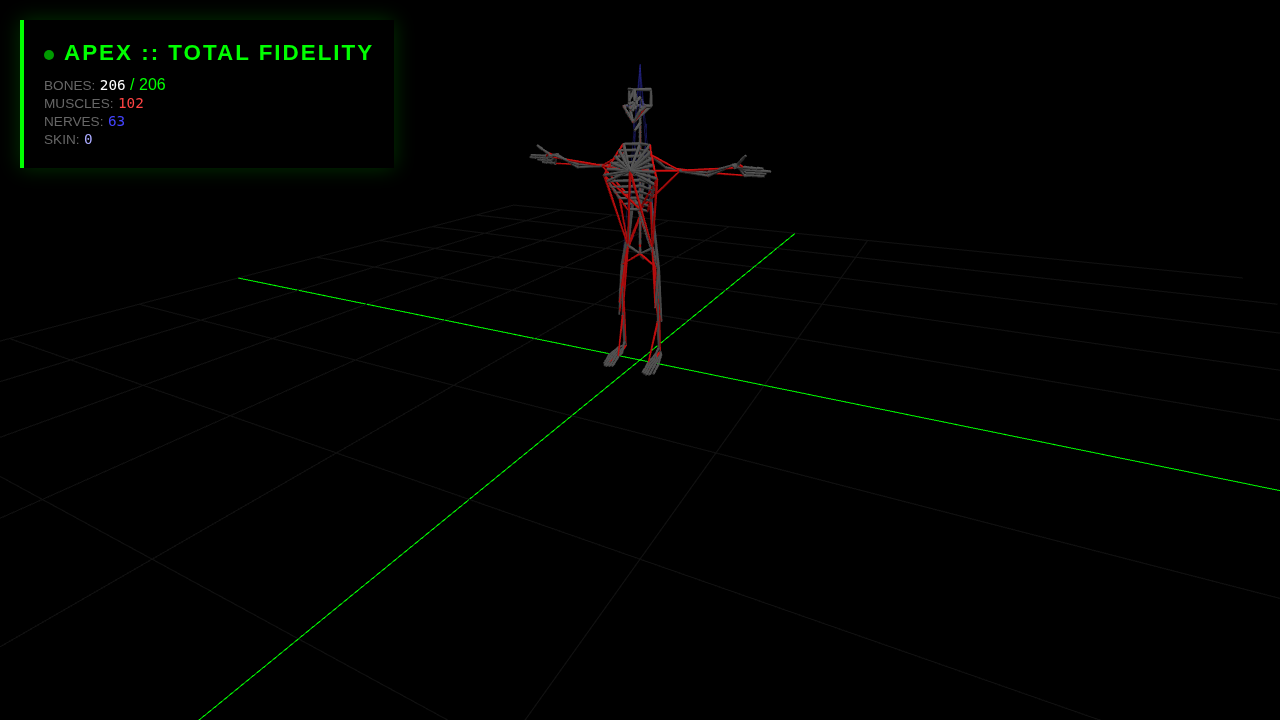
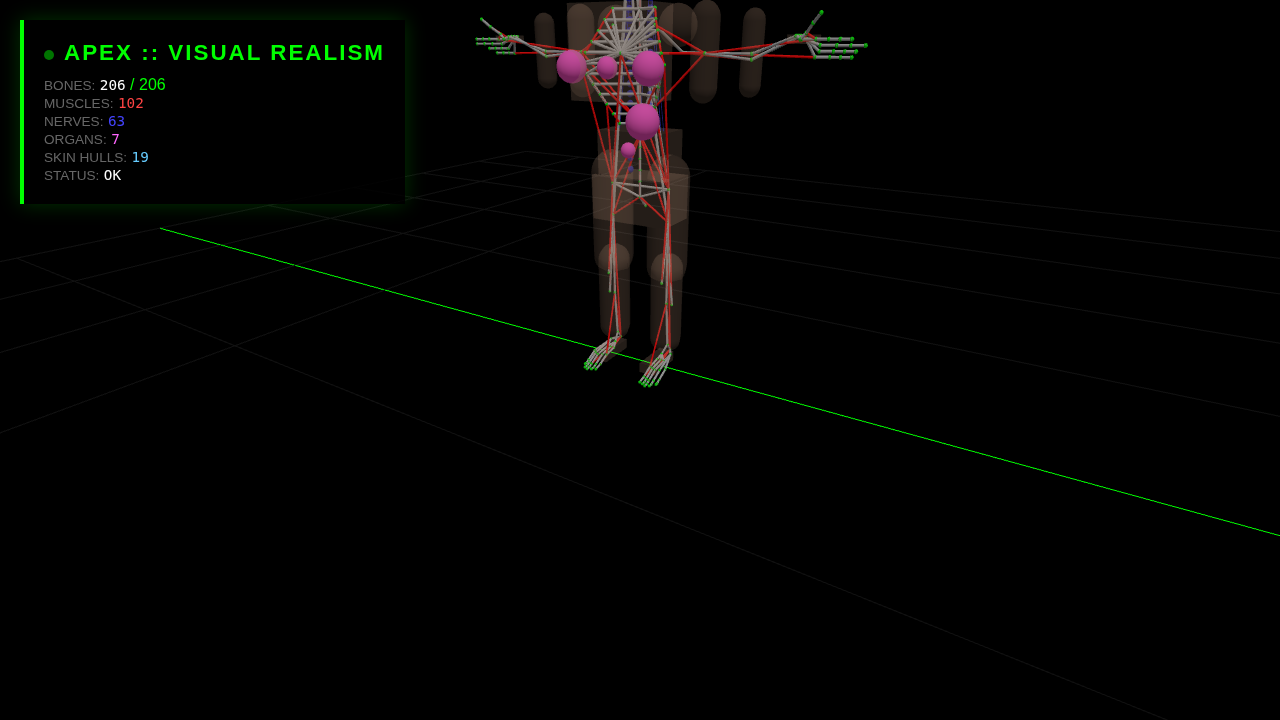
feat(viz): implement explicit geometric primitives for realistic silhouette
Upgrades compiler and exporter to support NodeShape metadata. Refactors Skin and Organ layers with medically accurate dimensions. Optimized viewer rendering for 206-bone + 150-muscle sentient organism.

diff --git a/examples/viewer.html b/examples/viewer.html
@@ -3,7 +3,7 @@
 <head>
     <meta charset="UTF-8">
     <meta name="viewport" content="width=device-width, initial-scale=1.0">
-    <title>APEX Total Sanctification</title>
+    <title>APEX Visual Realism</title>
     <style>
         body { margin: 0; background: #000; overflow: hidden; font-family: 'Segoe UI', Tahoma, sans-serif; }
         #info { 
@@ -28,12 +28,12 @@
 </head>
 <body>
     <div id="info">
-        <span class="title"><span id="hot-indicator"></span>APEX :: TOTAL SANCTIFICATION</span>
+        <span class="title"><span id="hot-indicator"></span>APEX :: VISUAL REALISM</span>
         <span class="stat">Bones:</span> <span id="boneCount" class="val">0</span> / 206<br>
         <span class="stat">Muscles:</span> <span id="muscles" class="val muscle-val">0</span><br>
         <span class="stat">Nerves:</span> <span id="nerves" class="val neural-val">0</span><br>
         <span class="stat">Organs:</span> <span id="organs" class="val organ-val">0</span><br>
-        <span class="stat">Skin:</span> <span id="skin" class="val skin-val">0</span><br>
+        <span class="stat">Skin Hulls:</span> <span id="skin" class="val skin-val">0</span><br>
         <span class="stat">Status:</span> <span id="status" class="val">OK</span>
     </div>
     
@@ -75,21 +75,40 @@
         const muscleMat = new THREE.MeshStandardMaterial({ color: 0xff0000, emissive: 0x440000 });
         const neuralMat = new THREE.MeshStandardMaterial({ color: 0x4444ff, emissive: 0x000044, transparent: true, opacity: 0.6 });
         const organMat = new THREE.MeshStandardMaterial({ color: 0xff66cc, emissive: 0x330022 });
-        const skinMat = new THREE.MeshStandardMaterial({ color: 0x66ccff, transparent: true, opacity: 0.15 });
+        const skinMat = new THREE.MeshStandardMaterial({ color: 0xffccaa, transparent: true, opacity: 0.25 });
         const jointMat = new THREE.MeshStandardMaterial({ color: 0x00ff00 });
 
-        const baseCylinder = new THREE.CylinderGeometry(0.008, 0.008, 1, 6);
+        const baseCylinder = new THREE.CylinderGeometry(0.006, 0.006, 1, 6);
         baseCylinder.translate(0, 0.5, 0);
-        const baseSphere = new THREE.SphereGeometry(1, 12, 12);
 
         function getGlbPath() {
-            // If hostname is localhost or 0.0.0.0, we assume the python server structure
-            if (window.location.hostname.includes('localhost') || window.location.hostname.includes('0.0.0.0')) {
-                if (window.location.pathname.includes('/examples/')) return '../human_skeleton.glb?t=' + Date.now();
+            const loc = window.location;
+            if (loc.hostname.includes('localhost') || loc.hostname.includes('0.0.0.0')) {
+                if (loc.pathname.includes('/examples/')) return '../human_skeleton.glb?t=' + Date.now();
                 return './human_skeleton.glb?t=' + Date.now();
             }
-            // For GitHub Pages, use relative path (they are in the same folder)
             return 'human_skeleton.glb?t=' + Date.now();
+        }
+
+        function createPrimitive(shapeData, material) {
+            let geom;
+            switch(shapeData.type) {
+                case 'sphere':
+                    geom = new THREE.SphereGeometry(shapeData.radius, 16, 16);
+                    break;
+                case 'box':
+                    geom = new THREE.BoxGeometry(shapeData.width, shapeData.height, shapeData.depth);
+                    break;
+                case 'capsule':
+                    geom = new THREE.CapsuleGeometry(shapeData.radius, shapeData.length, 4, 8);
+                    break;
+                case 'cylinder':
+                    geom = new THREE.CylinderGeometry(shapeData.radius, shapeData.radius, shapeData.length, 8);
+                    break;
+                default:
+                    geom = new THREE.SphereGeometry(0.05, 8, 8);
+            }
+            return new THREE.Mesh(geom, material);
         }
 
         async function loadModel() {
@@ -108,16 +127,17 @@
                     if (n.name.startsWith("APEX_NODE_")) {
                         const name = n.name.replace("APEX_NODE_", "");
                         nodeMap.set(name, n);
-                        if (!name.startsWith("CPG_") && !name.startsWith("MUSCLE_NODE_") && !name.startsWith("SKIN_HULL_") && !name.startsWith("ORGAN_NODE_")) {
-                            bCnt++;
-                            const marker = new THREE.Mesh(new THREE.SphereGeometry(0.01, 8, 8), jointMat);
-                            marker.position.copy(n.position);
-                            visualGroup.add(marker);
-                        } else if (name.startsWith("CPG_")) {
+                        
+                        if (name.startsWith("CPG_")) {
                             cCnt++;
-                            const brainMarker = new THREE.Mesh(new THREE.SphereGeometry(0.02, 8, 8), neuralMat);
+                            const brainMarker = new THREE.Mesh(new THREE.SphereGeometry(0.015, 8, 8), neuralMat);
                             brainMarker.position.copy(n.position);
                             visualGroup.add(brainMarker);
+                        } else if (!name.startsWith("MUSCLE_NODE_") && !name.startsWith("SKIN_HULL_") && !name.startsWith("ORGAN_NODE_")) {
+                            bCnt++;
+                            const marker = new THREE.Mesh(new THREE.SphereGeometry(0.008, 6, 6), jointMat);
+                            marker.position.copy(n.position);
+                            visualGroup.add(marker);
                         }
                     }
                 });
@@ -134,37 +154,30 @@
                     if (s && t) {
                         const dir = t.position.clone().sub(s.position);
                         const len = dir.length();
-                        if (len > 0) {
+                        
+                        if (link.type === "skin" || link.type === "visceral") {
+                            const shapeData = t.userData.shape;
+                            if (shapeData) {
+                                const mesh = createPrimitive(shapeData, link.type === "skin" ? skinMat : organMat);
+                                mesh.position.copy(t.position);
+                                // Align rotation if it's a limb capsule/cylinder
+                                if (shapeData.type === 'capsule' || shapeData.type === 'cylinder') {
+                                    mesh.quaternion.setFromUnitVectors(new THREE.Vector3(0, 1, 0), dir.clone().normalize());
+                                }
+                                visualGroup.add(mesh);
+                                if (link.type === "skin") sCnt++; else oCnt++;
+                            }
+                        } else if (len > 0) {
                             let mat = boneMat;
                             let scale = 1.0;
-                            let isSpecial = false;
-
                             if (link.type === "muscle") { mat = muscleMat; scale = 0.8; mCnt++; }
                             else if (link.type === "synapse") { mat = neuralMat; scale = 0.3; }
-                            else if (link.type === "skin") {
-                                const hull = new THREE.Mesh(baseSphere, skinMat);
-                                hull.position.copy(t.position);
-                                hull.scale.set(0.12, 0.12, 0.12);
-                                visualGroup.add(hull);
-                                sCnt++;
-                                isSpecial = true;
-                            }
-                            else if (link.type === "visceral") {
-                                const organ = new THREE.Mesh(baseSphere, organMat);
-                                organ.position.copy(t.position);
-                                organ.scale.set(0.1, 0.1, 0.1);
-                                visualGroup.add(organ);
-                                oCnt++;
-                                isSpecial = true;
-                            }
 
-                            if (!isSpecial) {
-                                const mesh = new THREE.Mesh(baseCylinder, mat);
-                                mesh.position.copy(s.position);
-                                mesh.scale.set(scale, len, scale);
-                                mesh.quaternion.setFromUnitVectors(new THREE.Vector3(0,1,0), dir.clone().normalize());
-                                visualGroup.add(mesh);
-                            }
+                            const mesh = new THREE.Mesh(baseCylinder, mat);
+                            mesh.position.copy(s.position);
+                            mesh.scale.set(scale, len, scale);
+                            mesh.quaternion.setFromUnitVectors(new THREE.Vector3(0, 1, 0), dir.clone().normalize());
+                            visualGroup.add(mesh);
                         }
                     }
                 });

diff --git a/src/application/compiler/pipeline.rs b/src/application/compiler/pipeline.rs
@@ -1,10 +1,10 @@
 use crate::application::compiler::parser::{OrganAst, ParseError, Parser, ReceptorAst};
 use crate::application::compiler::validator::{BiologicalValidator, ValidationError};
-use crate::domain::air::topology::{EdgeType, NodeId, Topology};
+use crate::domain::air::topology::{EdgeType, NodeId, NodeShape, Topology};
 use crate::domain::ast::bone::Bone;
 use crate::domain::ast::joint::Joint;
 use crate::domain::ast::muscle::Muscle;
-use crate::domain::ast::skin::Skin;
+use crate::domain::ast::skin::{CollisionPrimitive, Skin};
 use crate::domain::ast::synapse::Synapse;
 use crate::domain::movement::cpg::Cpg;
 use crate::domain::biomechanics::rigid_body::Vector3;
@@ -83,6 +83,7 @@ impl CompilerPipeline {
                 bone.id().to_string(),
                 bone.position(),
                 bone.mesh_reference().cloned(),
+                None,
             );
             bone_map.insert(bone.id().to_string(), id);
         }
@@ -122,7 +123,7 @@ impl CompilerPipeline {
             
             // ANATOMICAL ANCHOR: Place muscle node at source for cleaner synaptic wiring
             let s_pos = topology.node_position(*source_id).unwrap_or_default();
-            let m_node_id = topology.add_node(format!("MUSCLE_NODE_{}", muscle.id()), s_pos, None);
+            let m_node_id = topology.add_node(format!("MUSCLE_NODE_{}", muscle.id()), s_pos, None, None);
             muscle_map.insert(muscle.id().to_string(), m_node_id);
         }
 
@@ -151,7 +152,7 @@ impl CompilerPipeline {
                 }
             }
 
-            let id = topology.add_node(format!("CPG_{}", id_str), pos, None);
+            let id = topology.add_node(format!("CPG_{}", id_str), pos, None, None);
             cpg_map.insert(id_str.to_string(), id);
         }
 
@@ -204,7 +205,20 @@ impl CompilerPipeline {
             for (_i, hull) in skin.hulls().iter().enumerate() {
                 let local_pos = Vector3 { x: hull.local_offset.0, y: hull.local_offset.1, z: hull.local_offset.2 };
                 let world_pos = anchor_pos + local_pos;
-                let h_node_id = topology.add_node(format!("SKIN_HULL_{}_{}", skin.id(), hull.id), world_pos, None);
+                
+                let shape = match hull.primitive {
+                    CollisionPrimitive::Sphere { radius } => NodeShape::Sphere { radius },
+                    CollisionPrimitive::Box { width, height, depth } => NodeShape::Box { width, height, depth },
+                    CollisionPrimitive::Capsule { radius, length } => NodeShape::Capsule { radius, length },
+                    CollisionPrimitive::Cylinder { radius, length } => NodeShape::Cylinder { radius, length },
+                };
+
+                let h_node_id = topology.add_node(
+                    format!("SKIN_HULL_{}_{}", skin.id(), hull.id),
+                    world_pos,
+                    None,
+                    Some(shape),
+                );
                 topology.add_edge(*anchor_id, h_node_id, format!("{}_{}", skin.id(), hull.id), EdgeType::Integument);
             }
         }
@@ -218,7 +232,17 @@ impl CompilerPipeline {
             
             // Place organ slightly offset from anchor
             let world_pos = anchor_pos + Vector3 { x: 0.0, y: -0.05, z: 0.1 }; 
-            let o_node_id = topology.add_node(format!("ORGAN_NODE_{}", organ.id), world_pos, None);
+            
+            // Derive radius from volume: V = 4/3 * PI * r^3 => r = (3V / 4PI)^(1/3)
+            let radius = ( (3.0 * organ.volume) / (4.0 * std::f64::consts::PI) ).powf(1.0/3.0);
+            let shape = NodeShape::Sphere { radius };
+
+            let o_node_id = topology.add_node(
+                format!("ORGAN_NODE_{}", organ.id),
+                world_pos,
+                None,
+                Some(shape),
+            );
             topology.add_edge(*anchor_id, o_node_id, organ.id.clone(), EdgeType::Visceral);
         }
 

diff --git a/src/infrastructure/exporter/gltf.rs b/src/infrastructure/exporter/gltf.rs
@@ -1,4 +1,4 @@
-use crate::domain::air::topology::{EdgeType, NodeId, Topology};
+use crate::domain::air::topology::{EdgeType, NodeId, NodeShape, Topology};
 use gltf_json as json;
 use serde_json::{json as json_macro, to_vec};
 use std::fs::File;
@@ -35,12 +35,26 @@ impl GltfExporter {
             let id = NodeId::new(i);
             let display_name = topology.node_name(id).unwrap_or("Unknown");
             let pos = topology.node_position(id).unwrap_or_default();
+            
+            let mut extras_map = serde_json::Map::new();
+            if let Some(shape) = topology.node_shape(id) {
+                let shape_json = match shape {
+                    NodeShape::Sphere { radius } => json_macro!({ "type": "sphere", "radius": radius }),
+                    NodeShape::Box { width, height, depth } => json_macro!({ "type": "box", "width": width, "height": height, "depth": depth }),
+                    NodeShape::Capsule { radius, length } => json_macro!({ "type": "capsule", "radius": radius, "length": length }),
+                    NodeShape::Cylinder { radius, length } => json_macro!({ "type": "cylinder", "radius": radius, "length": length }),
+                };
+                extras_map.insert("shape".to_string(), shape_json);
+            }
 
             nodes.push(json::Node {
                 camera: None,
                 children: None,
                 extensions: Default::default(),
-                extras: None,
+                extras: if extras_map.is_empty() { None } else {
+                    let extras_str = serde_json::to_string(&extras_map).unwrap();
+                    Some(json::extras::RawValue::from_string(extras_str).unwrap())
+                },
                 matrix: None,
                 mesh: None,
                 name: Some(format!("APEX_NODE_{}", display_name)),
@@ -119,7 +133,7 @@ mod tests {
     #[test]
     fn test_gltf_export_file_creation() {
         let mut topology = Topology::new();
-        topology.add_node("Head".to_string(), Vector3::default(), None);
+        topology.add_node("Head".to_string(), Vector3::default(), None, None);
 
         let exporter = GltfExporter::new();
         let path = "test_export.flat.glb";

diff --git a/src/application/compiler/parser.rs b/src/application/compiler/parser.rs
@@ -559,6 +559,28 @@ impl<'a> Parser<'a> {
                                          self.expect(Token::Semicolon)?;
                                          primitive = CollisionPrimitive::Box { width: w, height: h, depth: d };
                                      },
+                                     "capsule" => {
+                                         self.advance();
+                                         self.expect(Token::ParenOpen)?;
+                                         let r = if let Token::Number(v) = self.current_token { v } else { 0.1 };
+                                         self.advance(); self.expect(Token::Comma)?;
+                                         let l = if let Token::Number(v) = self.current_token { v } else { 0.1 };
+                                         self.advance();
+                                         self.expect(Token::ParenClose)?;
+                                         self.expect(Token::Semicolon)?;
+                                         primitive = CollisionPrimitive::Capsule { radius: r, length: l };
+                                     },
+                                     "cylinder" => {
+                                         self.advance();
+                                         self.expect(Token::ParenOpen)?;
+                                         let r = if let Token::Number(v) = self.current_token { v } else { 0.1 };
+                                         self.advance(); self.expect(Token::Comma)?;
+                                         let l = if let Token::Number(v) = self.current_token { v } else { 0.1 };
+                                         self.advance();
+                                         self.expect(Token::ParenClose)?;
+                                         self.expect(Token::Semicolon)?;
+                                         primitive = CollisionPrimitive::Cylinder { radius: r, length: l };
+                                     },
                                      "offset" => {
                                          self.advance();
                                          self.expect(Token::Equal)?;

diff --git a/src/domain/air/topology.rs b/src/domain/air/topology.rs
@@ -73,10 +73,20 @@ impl Edge {
     }
 }
 
+/// Represents the geometric primitive and dimensions for a node.
+#[derive(Debug, Clone, PartialEq)]
+pub enum NodeShape {
+    Sphere { radius: f64 },
+    Box { width: f64, height: f64, depth: f64 },
+    Capsule { radius: f64, length: f64 },
+    Cylinder { radius: f64, length: f64 },
+}
+
 pub struct Node {
     pub name: String,
     pub position: Vector3,
     pub mesh_reference: Option<MeshReference>,
+    pub shape: Option<NodeShape>,
 }
 
 /// The Anatomy Intermediate Representation topological graph.
@@ -100,12 +110,14 @@ impl Topology {
         name: String,
         position: Vector3,
         mesh_reference: Option<MeshReference>,
+        shape: Option<NodeShape>,
     ) -> NodeId {
         let idx = self.nodes.len();
         self.nodes.push(Node {
             name,
             position,
             mesh_reference,
+            shape,
         });
         NodeId(idx)
     }
@@ -130,6 +142,10 @@ impl Topology {
         self.nodes
             .get(id.index())
             .and_then(|n| n.mesh_reference.as_ref())
+    }
+
+    pub fn node_shape(&self, id: NodeId) -> Option<&NodeShape> {
+        self.nodes.get(id.index()).and_then(|n| n.shape.as_ref())
     }
 
     pub fn edges(&self) -> &[Edge] {

diff --git a/src/domain/air/mod.rs b/src/domain/air/mod.rs
@@ -10,8 +10,8 @@ mod tests {
         // Red Phase: We expect to insert nodes and link them via edges.
         let mut topology = Topology::new();
 
-        let femur_id = topology.add_node("Femur".to_string(), Vector3::default(), None);
-        let tibia_id = topology.add_node("Tibia".to_string(), Vector3::default(), None);
+        let femur_id = topology.add_node("Femur".to_string(), Vector3::default(), None, None);
+        let tibia_id = topology.add_node("Tibia".to_string(), Vector3::default(), None, None);
 
         assert_eq!(femur_id.index(), 0);
         assert_eq!(tibia_id.index(), 1);
